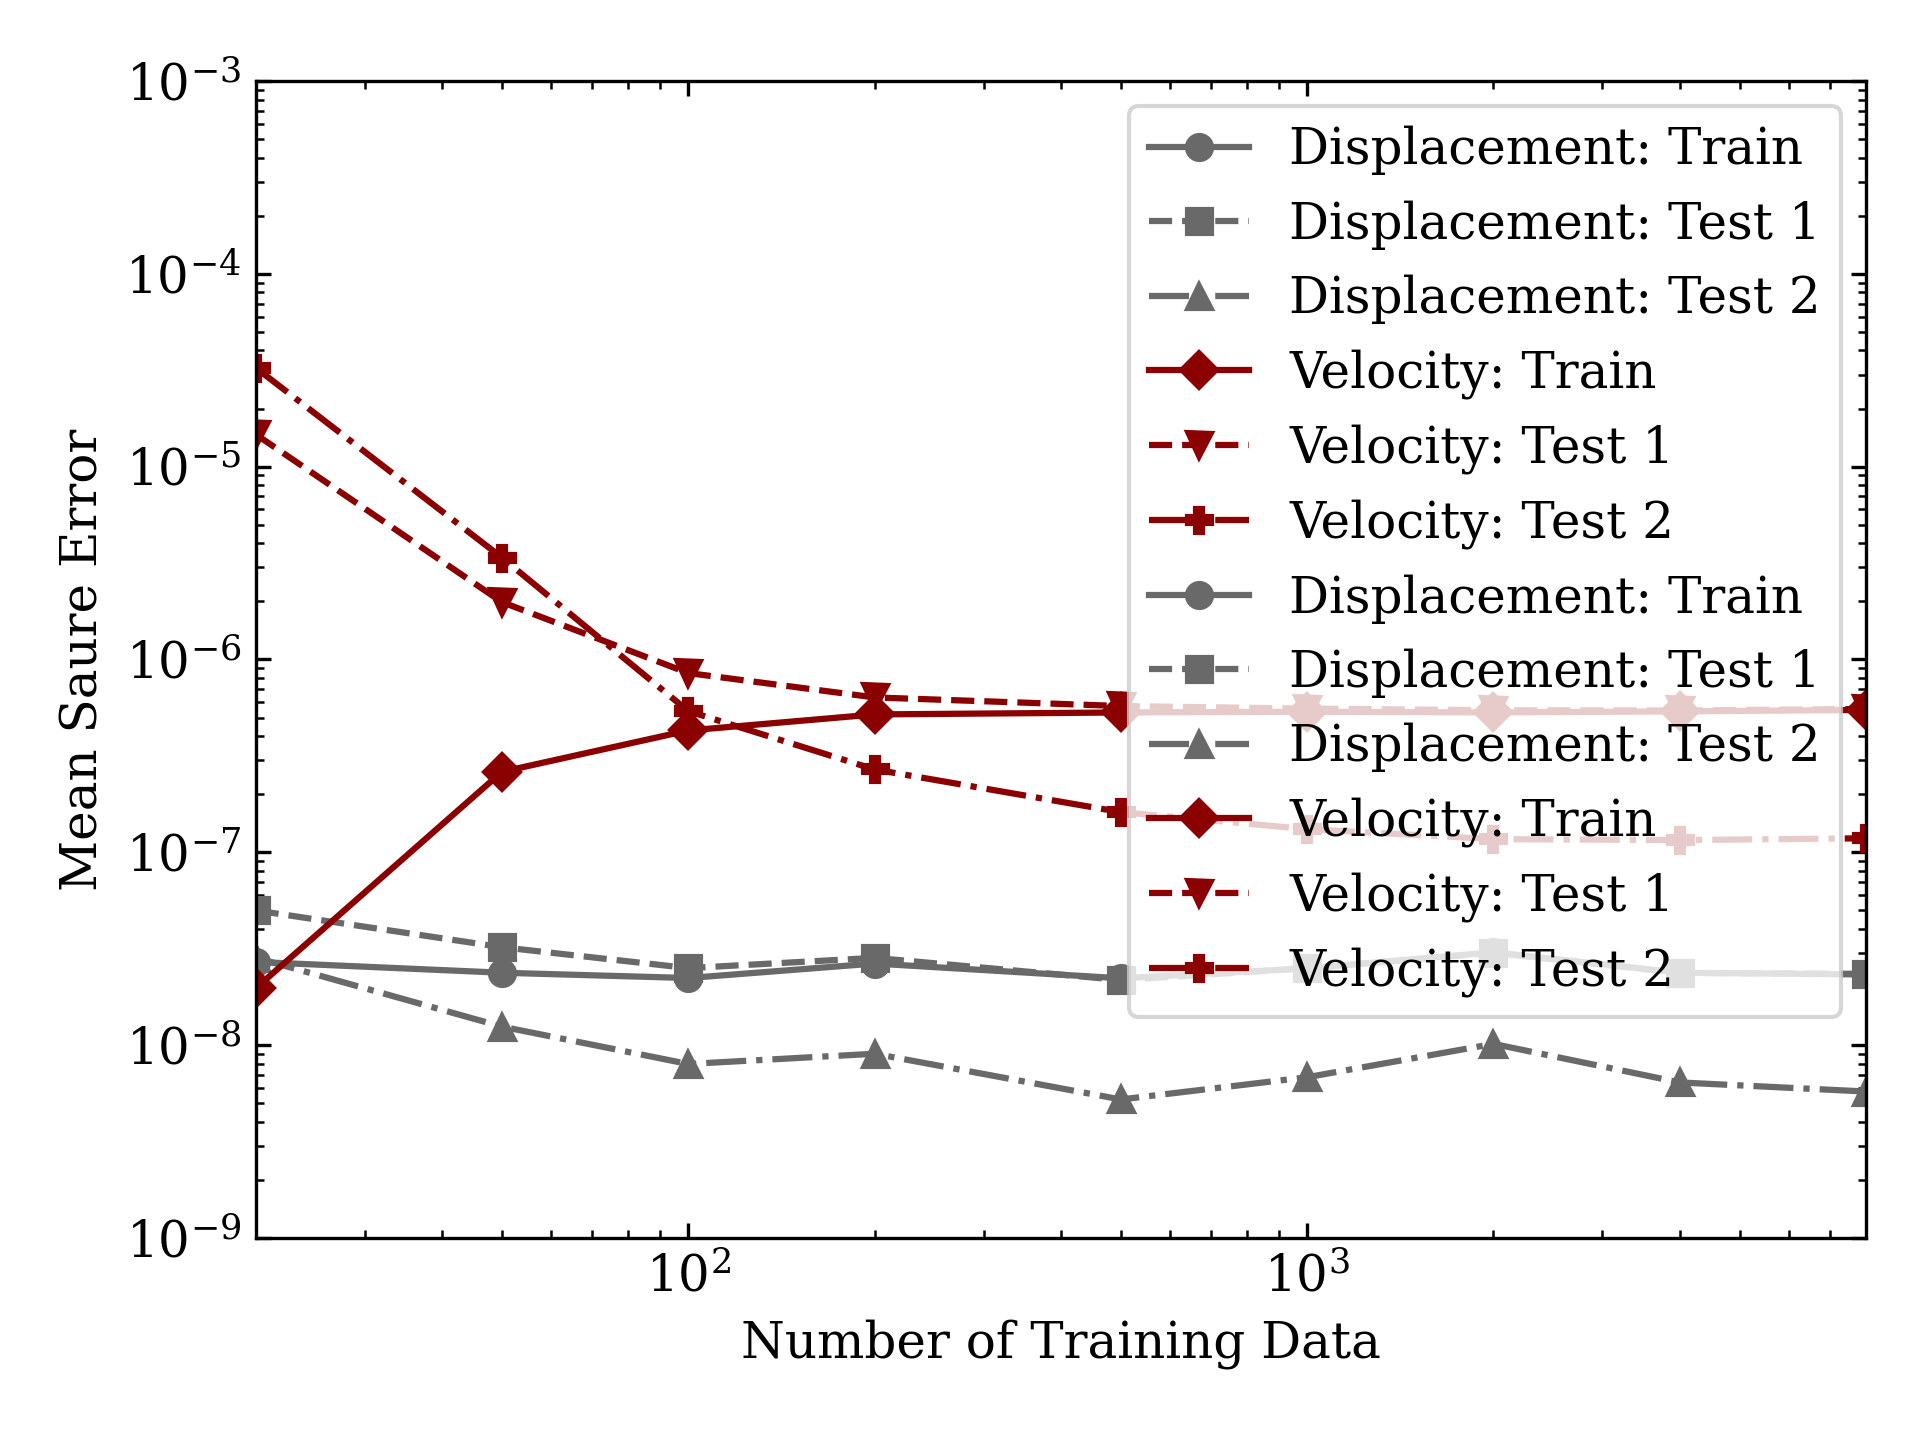
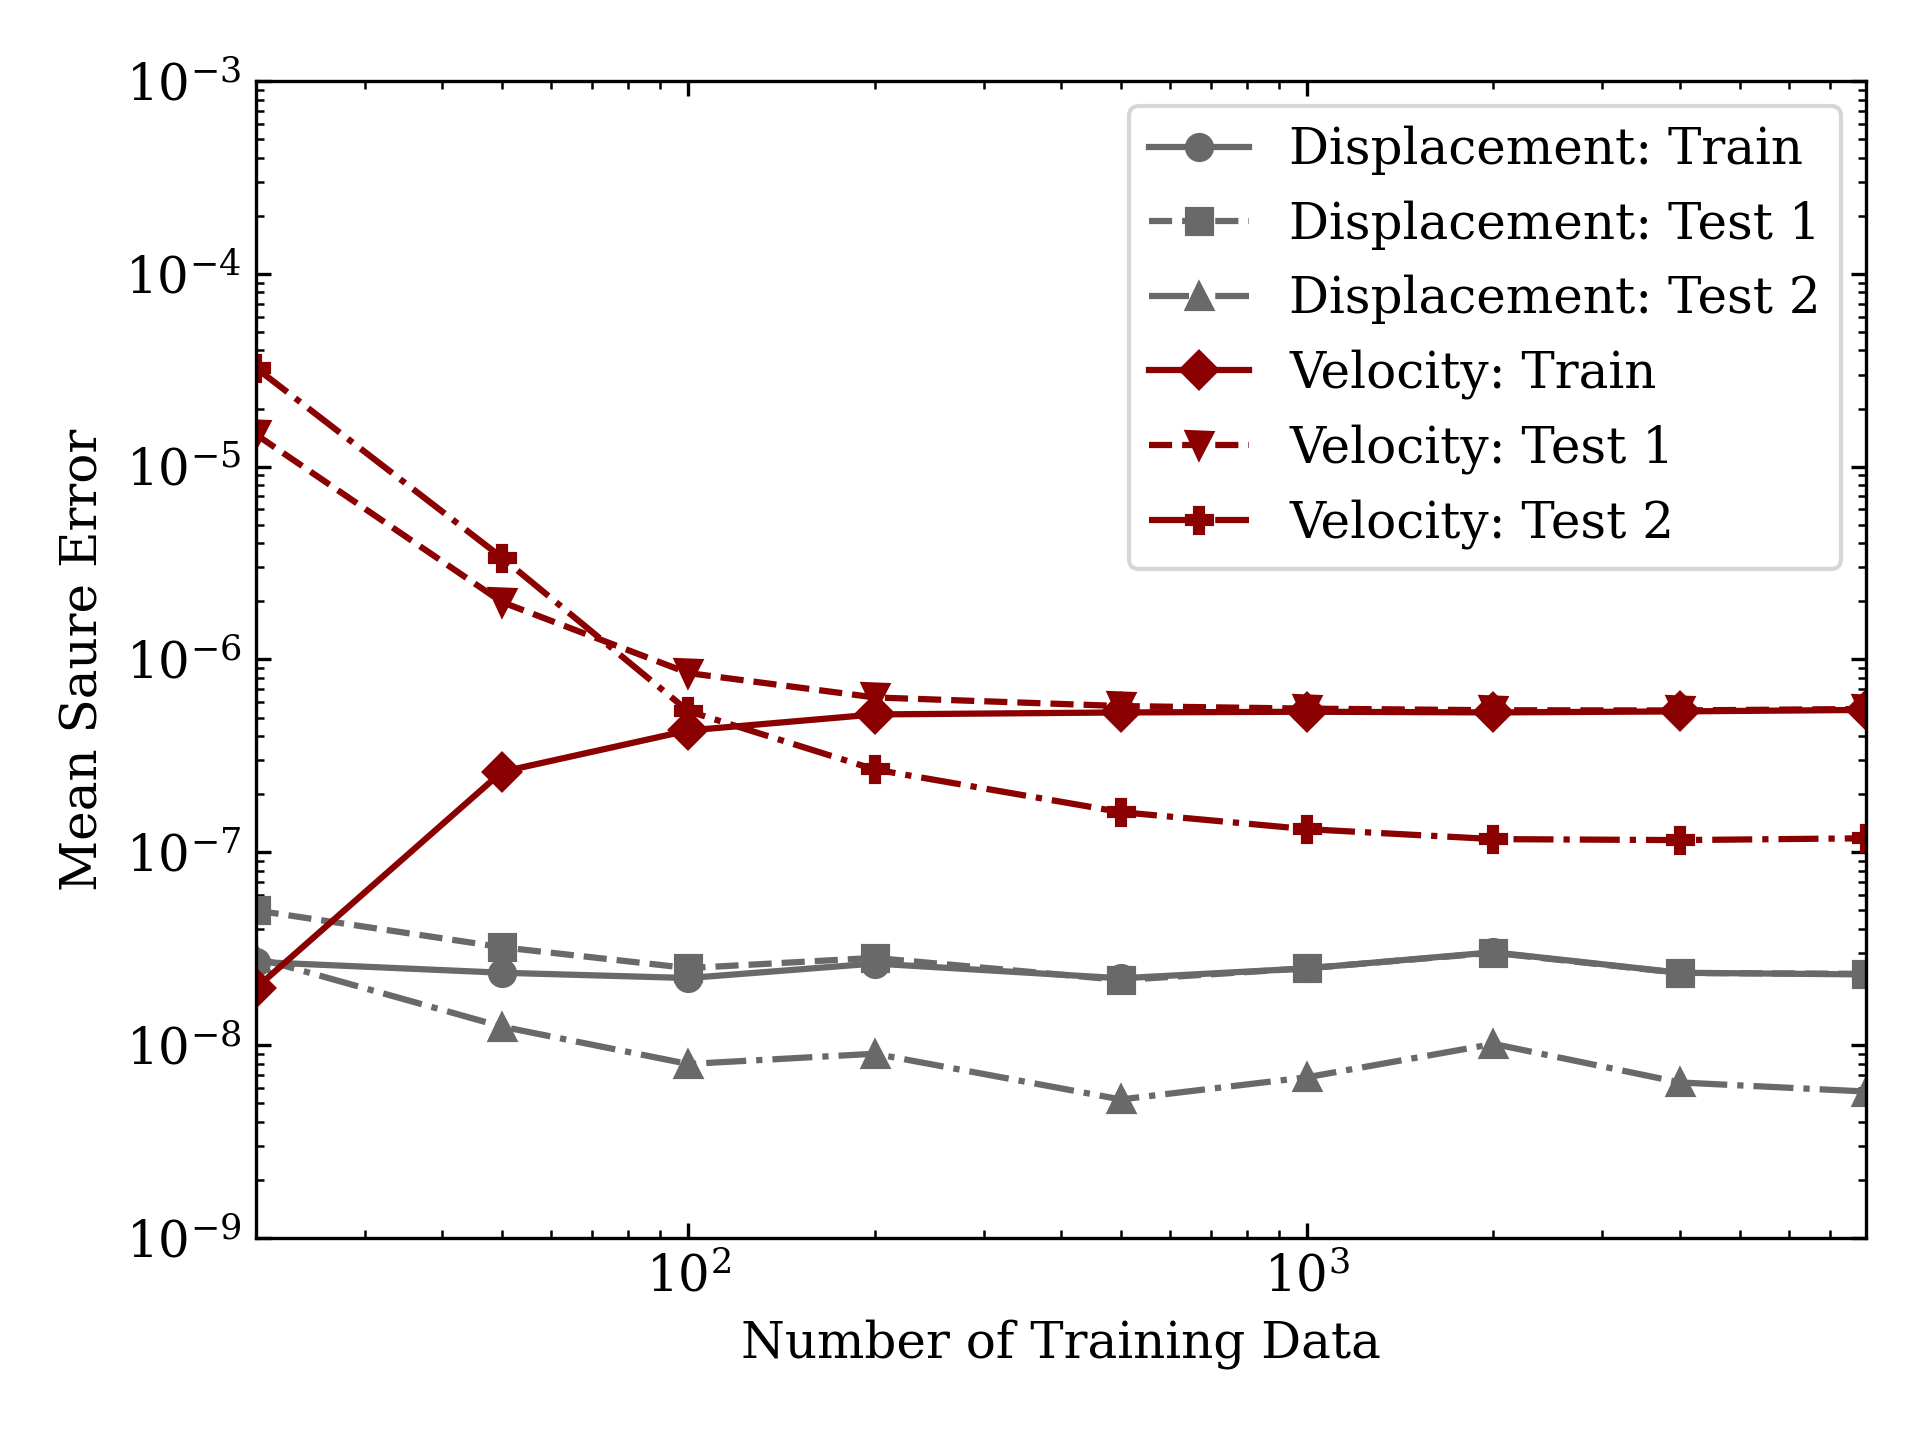
update models performance

Changed region(s): [[0.5625, 0.375, 0.9688, 0.5312], [0.5625, 0.5625, 0.9688, 0.7188]]

diff --git a/figures/rnn_plot.py b/figures/rnn_plot.py
@@ -1,0 +1,123 @@
+import numpy as np
+import pickle
+import matplotlib.pyplot as plt
+
+def models_performance_eval():
+    # dual kalman filter
+    with open("./dataset/dkf_eval.pkl", "rb") as f:
+        data = pickle.load(f)
+    dkf_disp_1 = data["dkf_disp_1"]
+    dkf_disp_2 = data["dkf_disp_2"]
+    dkf_velo_1 = data["dkf_velo_1"]
+    dkf_velo_2 = data["dkf_velo_2"]
+
+    # birnn_ae
+    with open("./dataset/birnn_ae_disp_pred_1.pkl", "rb") as f:
+        birnn_ae_disp_1 = pickle.load(f)
+    with open("./dataset/birnn_ae_disp_pred_2.pkl", "rb") as f:
+        birnn_ae_disp_2 = pickle.load(f)
+    with open("./dataset/birnn_ae_velo_pred_1.pkl", "rb") as f:
+        birnn_ae_velo_1 = pickle.load(f)
+    with open("./dataset/birnn_ae_velo_pred_2.pkl", "rb") as f:
+        birnn_ae_velo_2 = pickle.load(f)
+
+    # rnn_ae
+    with open("./dataset/rnn_ae_disp_pred_1.pkl", "rb") as f:
+        rnn_ae_disp_1 = pickle.load(f)
+    with open("./dataset/rnn_ae_disp_pred_2.pkl", "rb") as f:
+        rnn_ae_disp_2 = pickle.load(f)
+    with open("./dataset/rnn_ae_velo_pred_1.pkl", "rb") as f:
+        rnn_ae_velo_1 = pickle.load(f)
+    with open("./dataset/rnn_ae_velo_pred_2.pkl", "rb") as f:
+        rnn_ae_velo_2 = pickle.load(f)
+
+    # bilstm_ae
+    with open("./dataset/bilstm_ae_disp_pred_1.pkl", "rb") as f:
+        bilstm_ae_disp_1 = pickle.load(f)
+    with open("./dataset/bilstm_ae_disp_pred_2.pkl", "rb") as f:
+        bilstm_ae_disp_2 = pickle.load(f)
+    with open("./dataset/bilstm_ae_velo_pred_1.pkl", "rb") as f:
+        bilstm_ae_velo_1 = pickle.load(f)
+    with open("./dataset/bilstm_ae_velo_pred_2.pkl", "rb") as f:
+        bilstm_ae_velo_2 = pickle.load(f)
+
+    # lstm_ae
+    with open("./dataset/lstm_ae_disp_pred_1.pkl", "rb") as f:
+        lstm_ae_disp_1 = pickle.load(f)
+    with open("./dataset/lstm_ae_disp_pred_2.pkl", "rb") as f:
+        lstm_ae_disp_2 = pickle.load(f)
+    with open("./dataset/lstm_ae_velo_pred_1.pkl", "rb") as f:
+        lstm_ae_velo_1 = pickle.load(f)
+    with open("./dataset/lstm_ae_velo_pred_2.pkl", "rb") as f:
+        lstm_ae_velo_2 = pickle.load(f)
+
+    # ground truth
+    with open("./dataset/full_response_excitation_pattern_1.pkl", "rb") as f:
+        full_data = pickle.load(f)
+    disp_1 = full_data["displacement"][2000:, :]
+    velo_1 = full_data["velocity"][2000:, :]
+    with open("./dataset/full_response_excitation_pattern_2.pkl", "rb") as f:
+        full_data = pickle.load(f)
+    disp_2 = full_data["displacement"]
+    velo_2 = full_data["velocity"]
+
+    num_dof = 40
+    plt.plot(dkf_disp_1[num_dof, :600], label="DKF", color="dimgrey")
+    plt.plot(birnn_ae_disp_1[:600, num_dof], label="BiRNN-AE", color="darkred")
+    plt.plot(rnn_ae_disp_1[:600, num_dof], label="RNN-AE", color="darkorange")
+    plt.plot(bilstm_ae_disp_1[:600, num_dof], label="BiLSTM-AE", color="darkgreen")
+    plt.plot(lstm_ae_disp_1[:600, num_dof], label="LSTM-AE", color="darkblue")
+    plt.plot(disp_1[:600, num_dof], label="Ground Truth", color="black")
+    plt.legend()
+
+    # # plot
+    # fig, ax = plt.subplots(2, 2, figsize=(10, 8))
+    # ax[0, 0].plot(dkf_disp_1, label="DKF", color="dimgrey")
+    # ax[0, 0].plot(birnn_ae_disp_1, label="BiRNN-AE", color="darkred")
+    # ax[0, 0].plot(rnn_ae_disp_1, label="RNN-AE", color="darkorange")
+    # ax[0, 0].plot(bilstm_ae_disp_1, label="BiLSTM-AE", color="darkgreen")
+    # ax[0, 0].plot(lstm_ae_disp_1, label="LSTM-AE", color="darkblue")
+    # ax[0, 0].plot(disp_1, label="Ground Truth", color="black")
+    # ax[0, 0].set_xlabel("Time Step")
+    # ax[0, 0].set_ylabel("Displacement")
+    # ax[0, 0].legend()
+    # ax[0, 0].set_title("Excitation Pattern 1")
+
+    # ax[0, 1].plot(dkf_disp_2, label="DKF", color="dimgrey")
+    # ax[0, 1].plot(birnn_ae_disp_2, label="BiRNN-AE", color="darkred")
+    # ax[0, 1].plot(rnn_ae_disp_2, label="RNN-AE", color="darkorange")
+    # ax[0, 1].plot(bilstm_ae_disp_2, label="BiLSTM-AE", color="darkgreen")
+    # ax[0, 1].plot(lstm_ae_disp_2, label="LSTM-AE", color="darkblue")
+    # ax[0, 1].plot(disp_2, label="Ground Truth", color="black")
+    # ax[0, 1].set_xlabel("Time Step")
+    # ax[0, 1].set_ylabel("Displacement")
+    # ax[0, 1].legend()
+    # ax[0, 1].set_title("Excitation Pattern 2")
+
+    # ax[1, 0].plot(dkf_velo_1, label="DKF", color="dimgrey")
+    # ax[1, 0].plot(birnn_ae_velo_1, label="BiRNN-AE", color="darkred")
+    # ax[1, 0].plot(rnn_ae_velo_1, label="RNN-AE", color="darkorange")
+    # ax[1, 0].plot(bilstm_ae_velo_1, label="BiLSTM-AE", color="darkgreen")
+    # ax[1, 0].plot(lstm_ae_velo_1, label="LSTM-AE", color="darkblue")
+    # ax[1, 0].plot(velo_1, label="Ground Truth", color="black")
+    # ax[1, 0].set_xlabel("Time Step")
+    # ax[1, 0].set_ylabel("Velocity")
+    # ax[1, 0].legend()
+    # ax[1, 0].set_title("Excitation Pattern 1")
+
+    # ax[1, 1].plot(dkf_velo_2, label="DKF", color="dimgrey")
+    # ax[1, 1].plot(birnn_ae_velo_2, label="BiRNN-AE", color="darkred")
+    # ax[1, 1].plot(rnn_ae_velo_2, label="RNN-AE", color="darkorange")
+    # ax[1, 1].plot(bilstm_ae_velo_2, label="BiLSTM-AE", color="darkgreen")
+    # ax[1, 1].plot(lstm_ae_velo_2, label="LSTM-AE", color="darkblue")
+    # ax[1, 1].plot(velo_2, label="Ground Truth", color="black")
+    # ax[1, 1].set_xlabel("Time Step")
+    # ax[1, 1].set_ylabel("Velocity")
+    # ax[1, 1].legend()
+    # ax[1, 1].set_title("Excitation Pattern 2")
+
+    # plt.tight_layout()
+    plt.show()
+
+if __name__ == "__main__":
+    models_performance_eval()

diff --git a/figures/ae_plot.py b/figures/ae_plot.py
@@ -70,7 +70,7 @@ def num_hid_neuron():
     plt.ylabel("Mean Saure Error")
     plt.tight_layout()
     plt.savefig("./figures/num_hid_neuron.png", dpi=300)
-    # plt.show()
+    plt.show()
 
 
 def data_size():
@@ -134,19 +134,16 @@ def data_size():
         label="Velocity: Test 2",
     )
     plt.yscale("log")
-    # print(error_disp_test_1_mean[:, 2] - error_disp_test_1_std[:, 2])
-    plt.yscale("log")
     plt.xscale("log")
     plt.ylim(1e-9, 1e-3)
     plt.xlim(20, 8000)
-    # plt.xticks([20, 50, 100, 200, 500, 1000, 2000, 4000, 8000])
     plt.tick_params(axis="both", direction="in", which="both", top=True, right=True)
     plt.legend()
     plt.xlabel("Number of Training Data")
     plt.ylabel("Mean Saure Error")
     plt.tight_layout()
     plt.savefig("./figures/data_size.png", dpi=300)
-    # plt.show()
+    plt.show()
 
 
 if __name__ == "__main__":

diff --git a/exps/continuous_beam.py b/exps/continuous_beam.py
@@ -1157,28 +1157,28 @@ def models_performance_eval():
         acc_idx=[13, 17, 32, 50, 67, 77],
         hidden_size_disp=8,
         hidden_size_velo=16,
-        epochs=20000,
+        epochs=100000,
     )
     rnn_ae_eval(
         num_ele_per_seg=2000,
         acc_idx=[13, 17, 32, 50, 67, 77],
         hidden_size_disp=8,
         hidden_size_velo=16,
-        epochs=20000,
+        epochs=100000,
     )
     bilstm_ae_eval(
         num_ele_per_seg=2000,
         acc_idx=[13, 17, 32, 50, 67, 77],
         hidden_size_disp=8,
         hidden_size_velo=16,
-        epochs=20000,
+        epochs=100000,
     )
     lstm_ae_eval(
         num_ele_per_seg=2000,
         acc_idx=[13, 17, 32, 50, 67, 77],
         hidden_size_disp=8,
         hidden_size_velo=16,
-        epochs=20000,
+        epochs=100000,
     )
 
 
